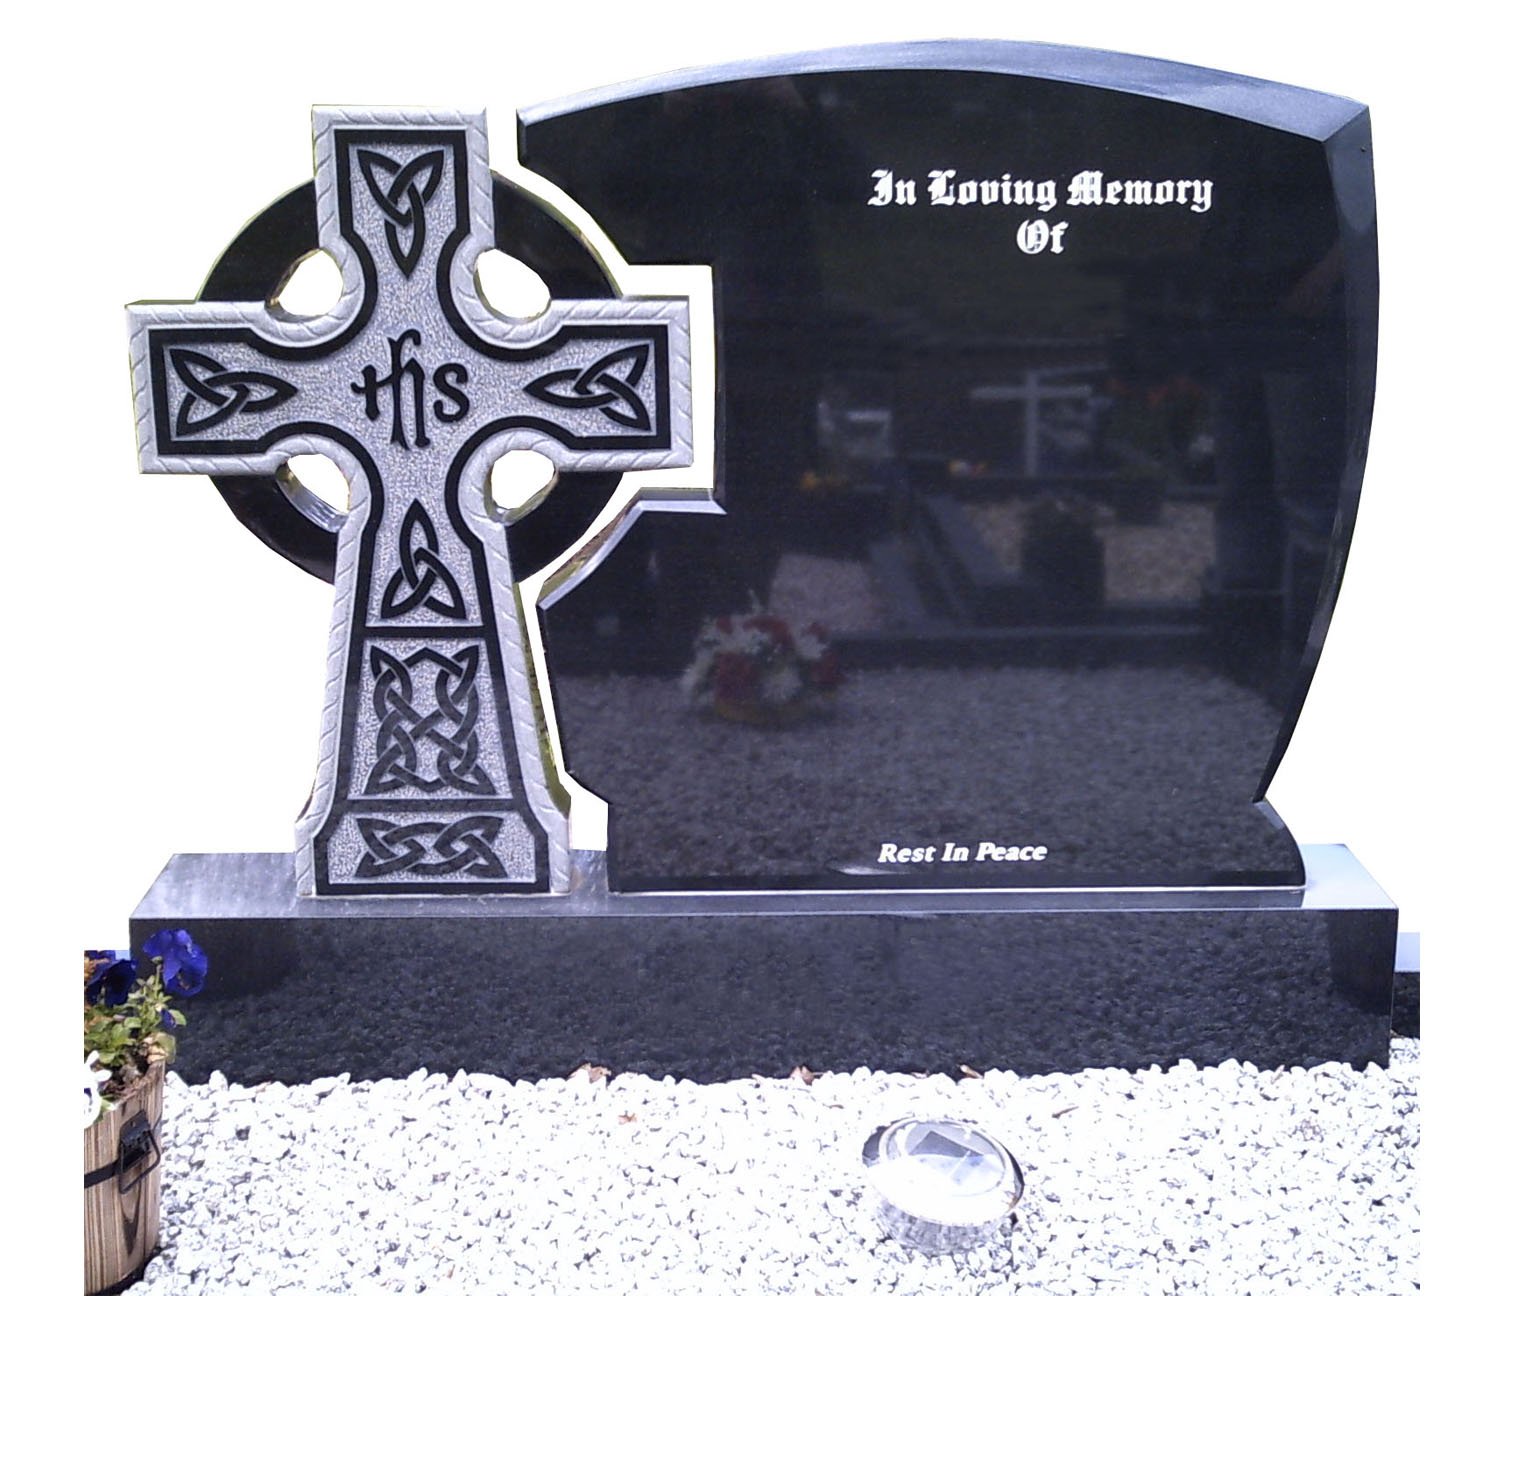
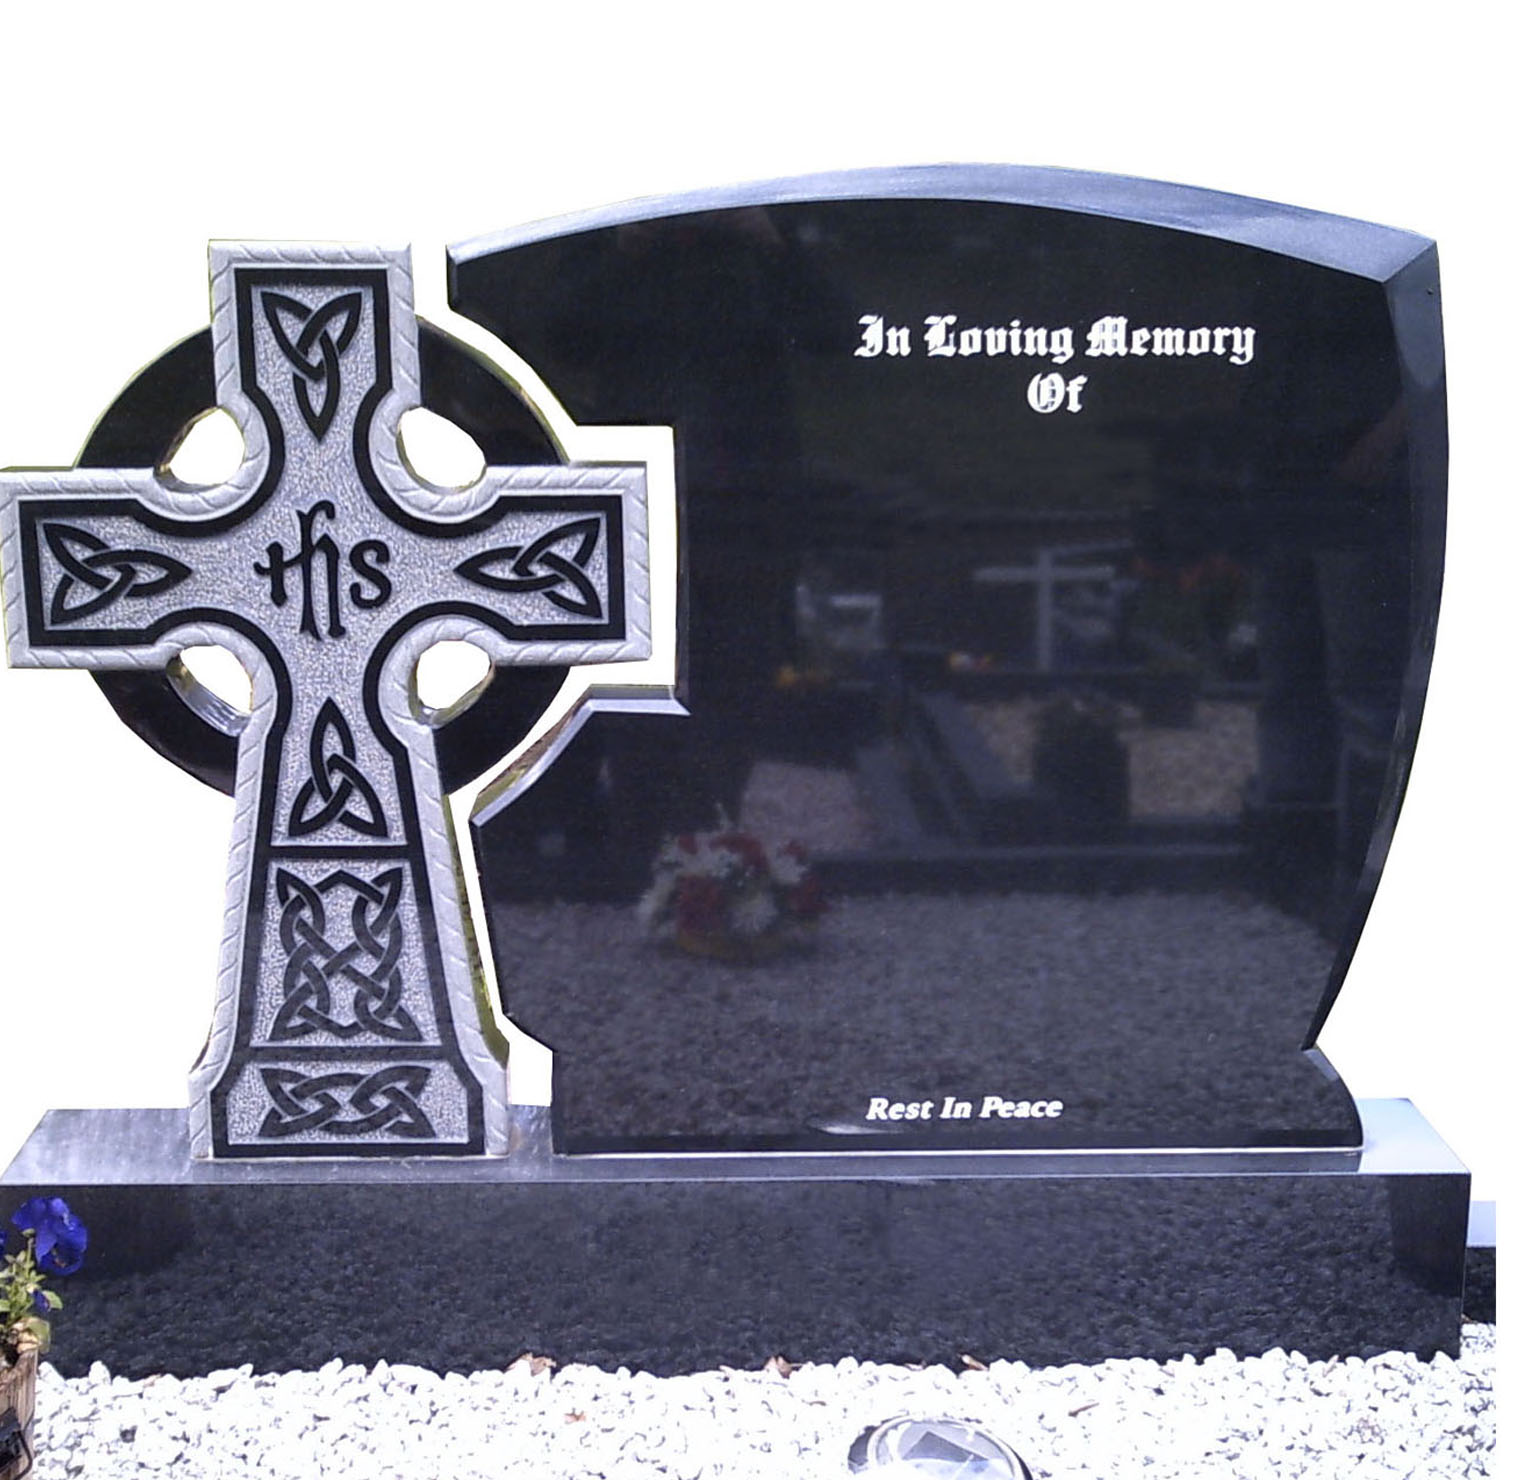
image resize

diff --git a/app/index.html b/app/index.html
@@ -73,11 +73,13 @@
     <script src="scripts/about/about.module.js"></script>
     <script src="scripts/app.module.js"></script>
     <script src="scripts/contact/contact.module.js"></script>
+    <script src="scripts/headstone/headstone.module.js"></script>
     <script src="scripts/headstones/headstones.module.js"></script>
     <script src="scripts/home/home.module.js"></script>
     <script src="scripts/app.config.js"></script>
     <script src="scripts/about/about.route.js"></script>
     <script src="scripts/contact/contact.route.js"></script>
+    <script src="scripts/headstone/headstone.route.js"></script>
     <script src="scripts/headstones/headstones.route.js"></script>
     <script src="scripts/home/home.route.js"></script>
     <script src="scripts/app.run.js"></script>
@@ -87,6 +89,7 @@
     <script src="scripts/headstones/headstones.controller.js"></script>
     <script src="scripts/headstones/headstones.modal.controller.js"></script>
     <script src="scripts/home/home.controller.js"></script>
+    <script src="scripts/main/main.controller.js"></script>
     <!-- endinjector -->
     <script type="text/javascript" src="http://maps.google.com/maps/api/js?key=AIzaSyCtYlDk-rKM5C0HNj8v3BxQQD003DsVaww"></script>
     <!-- endbuild -->
